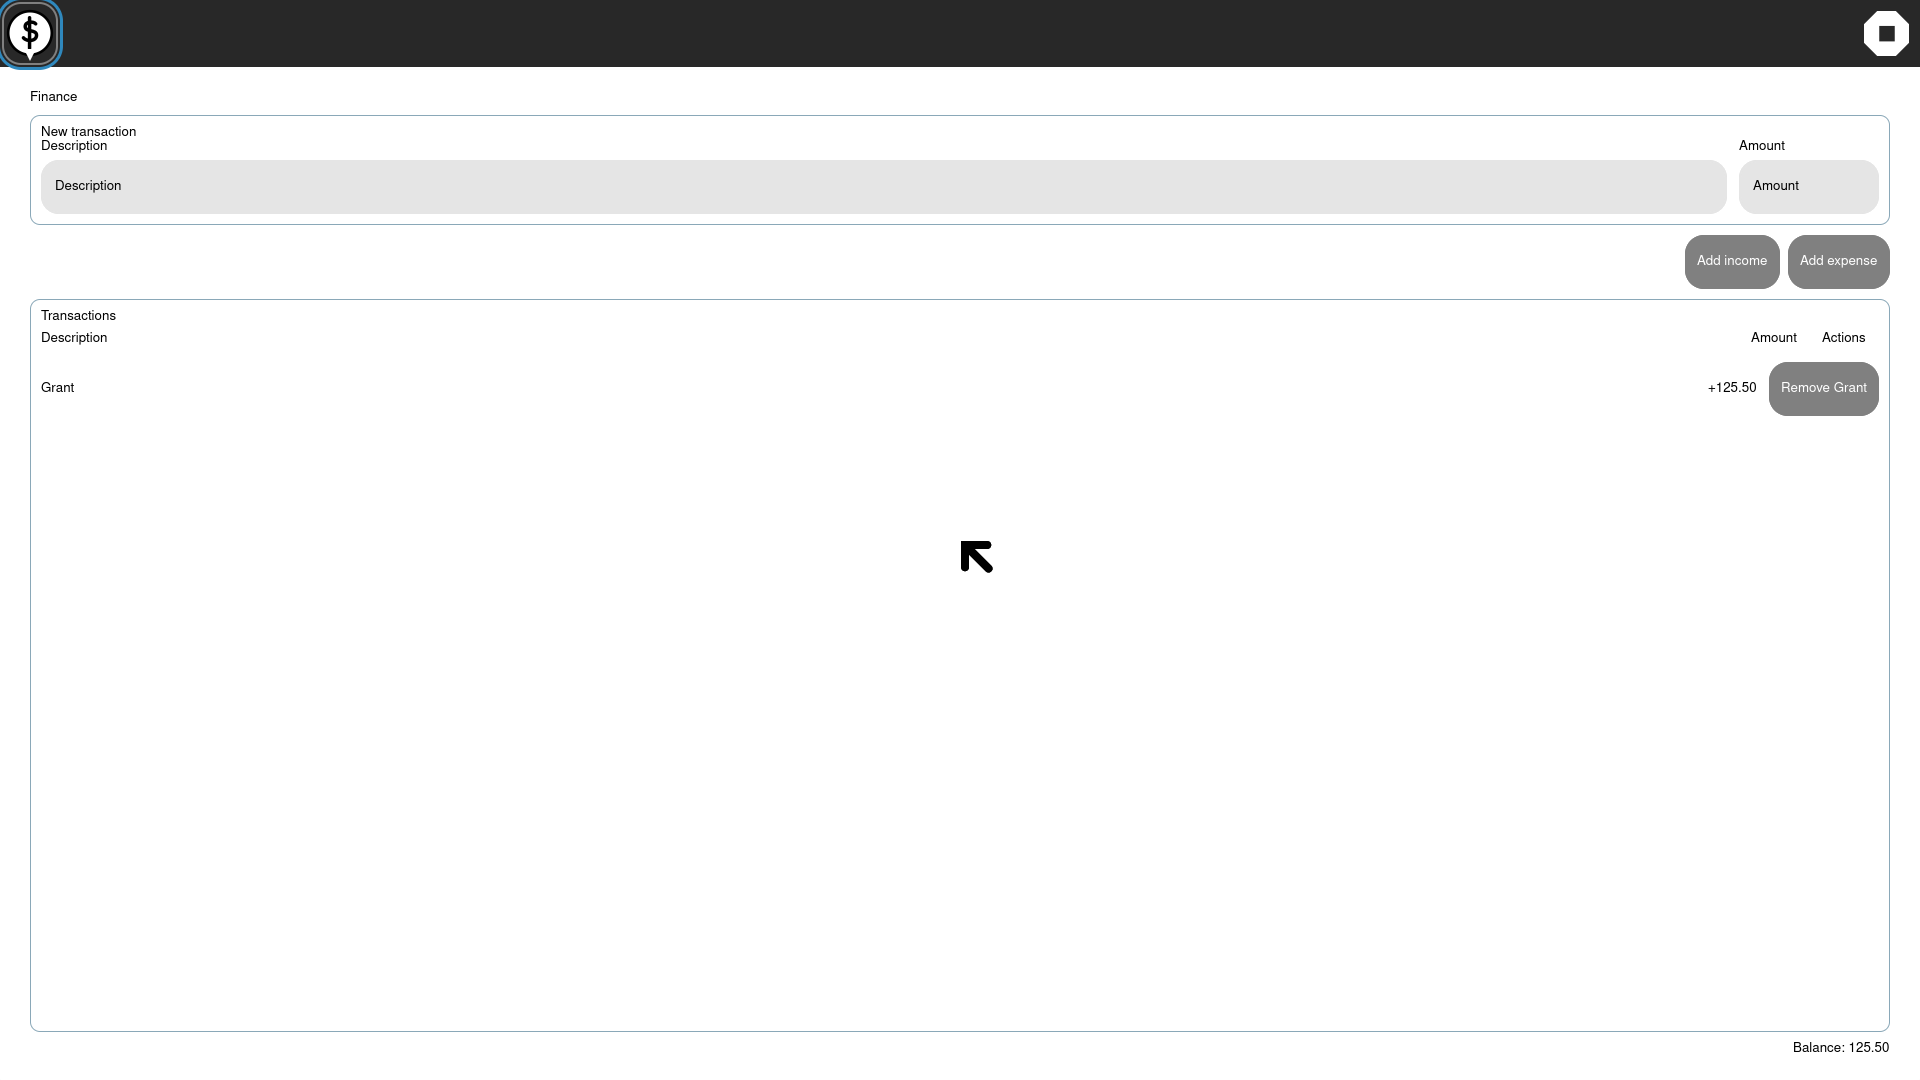
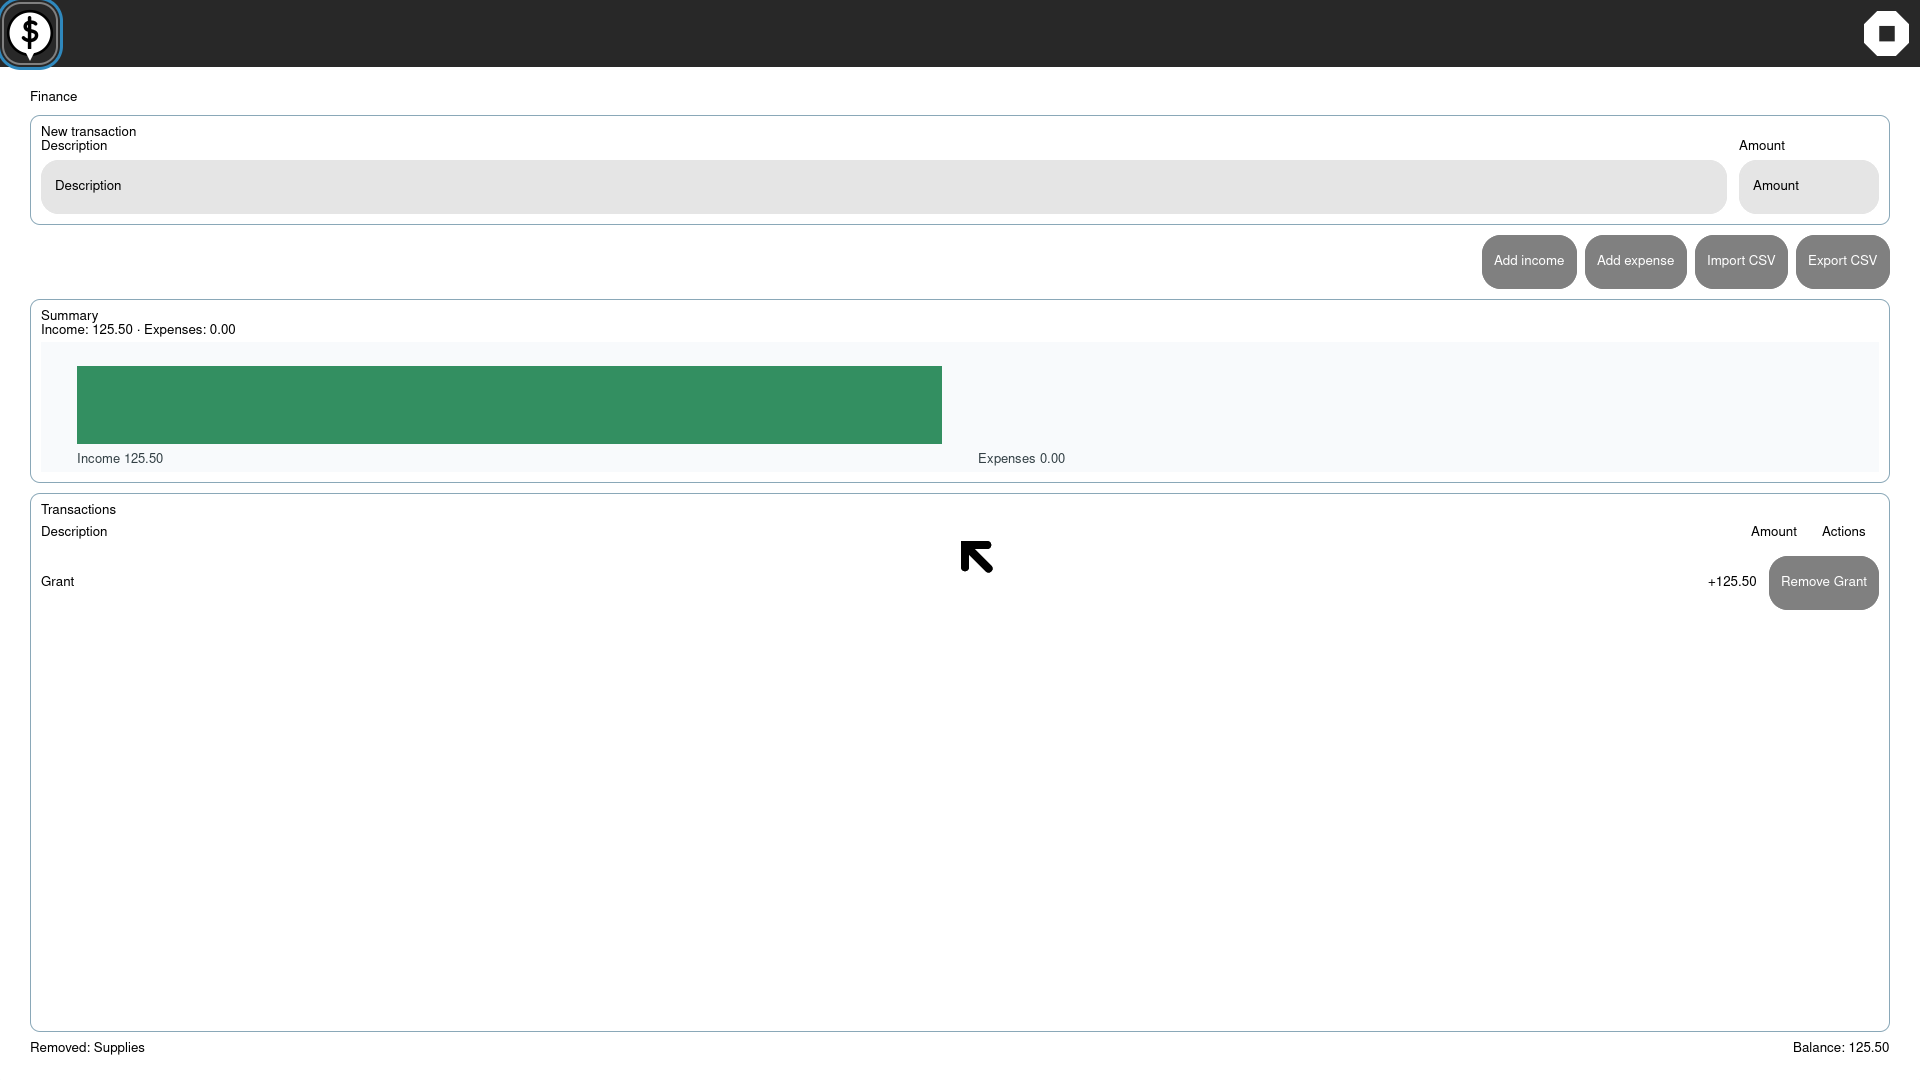
finance: add live income expense chart

diff --git a/packages/gtk4-finance-activity/financeactivity4.py b/packages/gtk4-finance-activity/financeactivity4.py
@@ -65,6 +65,22 @@ class FinanceActivity(SimpleActivity):
         buttons.append(export_button)
         body.append(buttons)
 
+        summary = Gtk.Box(orientation=Gtk.Orientation.VERTICAL, spacing=4)
+        self.chart_summary = Gtk.Label(label="Income: 0.00 · Expenses: 0.00", xalign=0)
+        self.chart_summary.add_css_class("dim-label")
+        summary.append(self.chart_summary)
+        self.chart = Gtk.DrawingArea()
+        self.chart.set_content_height(130)
+        self.chart.set_hexpand(True)
+        self.chart.set_draw_func(self._draw_chart)
+        self.chart.update_property([Gtk.AccessibleProperty.LABEL], ["Income and expense chart"])
+        summary.append(self.chart)
+        summary_frame = Gtk.Frame(label="Summary")
+        summary_frame.add_css_class("finance-pane")
+        summary_frame.set_hexpand(True)
+        summary_frame.set_child(summary)
+        body.append(summary_frame)
+
         transaction_content = Gtk.Box(orientation=Gtk.Orientation.VERTICAL, spacing=8)
         transaction_content.set_vexpand(True)
         header = Gtk.Grid(column_spacing=12)
@@ -103,7 +119,7 @@ class FinanceActivity(SimpleActivity):
         self.balance = Gtk.Label(label="Balance: 0.00", xalign=1); self.balance.set_halign(Gtk.Align.END); self.balance.add_css_class("heading"); footer.append(self.balance)
         body.append(footer)
         self.set_canvas(root)
-        provider = Gtk.CssProvider(); provider.load_from_data(b"entry { min-height: 42px; } button { min-height: 42px; border-radius: 19px; } frame.finance-pane { border: 1px solid #8aa8b8; border-radius: 10px; padding: 10px; } label.empty-state { background: #f1f5f7; border-radius: 12px; padding: 28px 24px; color: #52636b; } list { margin-top: 8px; } listboxrow { padding: 10px 12px; }")
+        provider = Gtk.CssProvider(); provider.load_from_data(b"entry { min-height: 42px; } button { min-height: 42px; border-radius: 19px; } frame.finance-pane { border: 1px solid #8aa8b8; border-radius: 10px; padding: 10px; } drawingarea.finance-chart { background: #f7fafb; border-radius: 8px; } label.empty-state { background: #f1f5f7; border-radius: 12px; padding: 28px 24px; color: #52636b; } list { margin-top: 8px; } listboxrow { padding: 10px 12px; }")
         display = Gdk.Display.get_default()
         if display: Gtk.StyleContext.add_provider_for_display(display, provider, Gtk.STYLE_PROVIDER_PRIORITY_APPLICATION)
 
@@ -118,6 +134,36 @@ class FinanceActivity(SimpleActivity):
     def _append_row(self, value, description):
         self._rows.append((value, description))
         self._refresh_rows()
+
+    def _draw_chart(self, _area, cr, width, height):
+        cr.set_source_rgb(0.97, 0.98, 0.985)
+        cr.paint()
+        income = sum(value for value, _description in self._rows if value > 0)
+        expenses = -sum(value for value, _description in self._rows if value < 0)
+        maximum = max(income, expenses, 1.0)
+        left = 36
+        baseline = max(30, height - 28)
+        available = max(40, height - 52)
+        bar_width = max(36, (width - 3 * left) / 2)
+        for index, (label, value, color) in enumerate(
+            (("Income", income, (0.20, 0.56, 0.38)), ("Expenses", expenses, (0.78, 0.36, 0.27)))
+        ):
+            x = left + index * (bar_width + left)
+            bar_height = available * value / maximum
+            cr.set_source_rgb(*color)
+            cr.rectangle(x, baseline - bar_height, bar_width, bar_height)
+            cr.fill()
+            cr.set_source_rgb(0.20, 0.25, 0.27)
+            cr.select_font_face("Sans", 0, 0)
+            cr.set_font_size(13)
+            cr.move_to(x, baseline + 19)
+            cr.show_text(f"{label} {value:.2f}")
+        if not self._rows:
+            cr.set_source_rgb(0.32, 0.39, 0.42)
+            cr.select_font_face("Sans", 0, 0)
+            cr.set_font_size(15)
+            cr.move_to(left, baseline - available / 2)
+            cr.show_text("Add transactions to see the summary")
 
     def _refresh_rows(self):
         while (row := self.rows.get_row_at_index(0)) is not None:
@@ -142,7 +188,11 @@ class FinanceActivity(SimpleActivity):
             self.rows.append(row)
         self.empty_state.set_visible(not self._rows)
         self.rows.set_visible(bool(self._rows))
-        self.balance.set_text(f"Balance: {sum(v for v, _ in self._rows):.2f}")
+        income = sum(value for value, _description in self._rows if value > 0)
+        expenses = -sum(value for value, _description in self._rows if value < 0)
+        self.chart_summary.set_text(f"Income: {income:.2f} · Expenses: {expenses:.2f}")
+        self.chart.queue_draw()
+        self.balance.set_text(f"Balance: {income - expenses:.2f}")
 
     def _remove_row(self, _button, index):
         if 0 <= index < len(self._rows):

diff --git a/tests/test_gtk4_finance_activity.py b/tests/test_gtk4_finance_activity.py
@@ -13,6 +13,9 @@ def test_finance_bundle_is_native_and_registered():
     assert "Add income" in source and "Add expense" in source and 'label=f"Remove {description}"' in source
     assert "Import CSV" in source and "Export CSV" in source
     assert "from finance_csv import read_csv, write_csv" in source
+    assert "Gtk.DrawingArea" in source and "_draw_chart" in source
+    assert 'Gtk.Frame(label="Summary")' in source
+    assert "Income and expense chart" in source
     assert "org.laptop.community.Finance" in (ROOT / "scripts/sugar-gtk4-activity-matrix.sh").read_text()
     assert "gtk4-finance-activity" in (ROOT / "scripts/sugar-gtk4-dev-sync.sh").read_text()
     assert "gtk4-finance-activity" in (ROOT / "scripts/sugar-gtk4-build.sh").read_text()
@@ -64,6 +67,7 @@ def test_finance_transactions_use_aligned_description_and_amount_columns():
     assert "def _remove_row" in source
     assert "Remove transaction" in source
     assert 'header.attach(actions_heading, 2, 0, 1, 1)' in source
+    assert "self.chart_summary.set_text" in source and "self.chart.queue_draw()" in source
 
 
 def test_finance_roundtrip_exercises_transaction_removal():

diff --git a/docs/sugar-modernization/ACTIVITY_PORT_CLASSIFICATION.md b/docs/sugar-modernization/ACTIVITY_PORT_CLASSIFICATION.md
@@ -52,7 +52,7 @@ Classification used by the migration ledger:
 | Words | FUNCTIONAL PORT | UTF-8 word entry, lookup result, and JSON Journal save/resume verified with real GTK4 Activity processes on 2026-09-15; translation/audio breadth remains absent |
 | Portfolio | FUNCTIONAL PORT | Responsive labeled project-description editor, UTF-8 title/body editing, visible draft-save state, and JSON Journal save/resume verified 2026-10-04; rich media/export breadth remains absent |
 | FotoToon | FUNCTIONAL PORT | Caption canvas interaction and JSON Journal save/resume verified with real GTK4 Activity processes on 2026-09-15; image import/layout breadth remains absent |
-| Finance | FUNCTIONAL PORT | Income/expense tracking, aligned transaction table, object-specific Remove actions, balance calculation, tested CSV description/amount/type interchange, and JSON Journal removal/save-resume verified in the headless guest on 2026-10-05; chart views and collaboration remain absent |
+| Finance | FUNCTIONAL PORT | Income/expense tracking, aligned transaction table, object-specific Remove actions, live income/expense chart summary, balance calculation, tested CSV description/amount/type interchange, and JSON Journal removal/save-resume verified in the headless guest on 2026-10-05; historical charting and collaboration remain absent |
 | Markdown | FUNCTIONAL PORT | Responsive centered side-by-side Markdown source/preview workspace with readable pane framing, guided empty state, sanitized common Markdown rendering (headings, emphasis, code, links, lists, quotes, and rules), and Journal save/resume verified in the headless guest on 2026-10-05; full CommonMark/PageDown parser parity remains absent |
 | Stopwatch | FUNCTIONAL PORT | JSON Journal elapsed-time resume, visible time restoration, and clean stop were verified with real GTK4 Activity processes on 2026-09-15; lap/export/collaboration breadth is not claimed |
 | TurtleBlocks | FUNCTIONAL PORT | Forward/turn/clear drawing workflow, visible position/heading state, seeded JSON Journal turtle position/heading/lines resume, and clean stop were verified with real GTK4 Activity processes on 2026-09-15; full Logo block language, collaboration, and upstream feature breadth remain absent |

diff --git a/reports/gtk4/finance-removal-pass-20261005.md b/reports/gtk4/finance-removal-pass-20261005.md
@@ -14,7 +14,7 @@ The [headless capture](finance-removal-20261005.png) was taken with:
 
 ```text
 SSH_PORT=2230 ./scripts/ssh-asp \
-  '/usr/lib/aspartame/gtk4-preview/venv/bin/python /mnt/aspartame-dev/scripts/sugar-gtk4-finance-roundtrip.py 1 /tmp/finance-remove-20261005.png'
+  '/usr/lib/aspartame/gtk4-preview/venv/bin/python /mnt/aspartame-dev/scripts/sugar-gtk4-finance-roundtrip.py 1 /tmp/finance-chart-20261005.png'
 ```
 
 Receipt:
@@ -24,8 +24,8 @@ cycle=1 ... resume=PASS service-release=PASS shell-cleanup=PASS
 finance-roundtrip=PASS input-method=AT-SPI datastore-payload=seeded
 ```
 
-Finance now also exposes accessible CSV Import/Export actions. The pure CSV
-boundary roundtrips income/expense direction and descriptions without changing
-the JSON Journal payload. Chart views and collaboration remain outside the
-bounded port; the CSV file-dialog path is implemented but still needs a visual
-guest interaction receipt.
+Finance now also exposes accessible CSV Import/Export actions and a live
+income/expense summary chart. The pure CSV boundary roundtrips income/expense
+direction and descriptions without changing the JSON Journal payload. Historical
+charting and collaboration remain outside the bounded port; the CSV file-dialog
+path is implemented but still needs a visual guest interaction receipt.

diff --git a/docs/sugar-modernization/GTK4_ACTIVITY_MATRIX.md b/docs/sugar-modernization/GTK4_ACTIVITY_MATRIX.md
@@ -14,7 +14,7 @@ without an orphan process. It does not by itself prove a complete port.
 | Calculate | 2-cycle launch plus seeded Journal expression resume and visible result restoration | FUNCTIONAL PORT |
 | Level | 2-cycle launch plus seeded JSON Journal inclination resume and visible readout restoration | FUNCTIONAL PORT |
 | Markdown | 2-cycle launch plus seeded UTF-8 Journal source resume and visible editor restoration | FUNCTIONAL PORT |
-| Finance | 2-cycle launch plus seeded JSON transaction resume and visible balance restoration | FUNCTIONAL PORT |
+| Finance | 2-cycle launch plus seeded JSON transaction resume, visible balance restoration, and live income/expense chart summary | FUNCTIONAL PORT |
 | Words | 2-cycle launch plus seeded JSON word resume and visible lookup restoration | FUNCTIONAL PORT |
 | Portfolio | 2-cycle launch plus seeded JSON title/body resume and visible title restoration | FUNCTIONAL PORT |
 | Jukebox | 2-cycle launch plus seeded JSON playlist resume and visible track restoration | FUNCTIONAL PORT |

diff --git a/docs/sugar-modernization/GTK4_STATUS.md b/docs/sugar-modernization/GTK4_STATUS.md
@@ -117,7 +117,8 @@ fresh-row rebuilding, and removal persistence. The headless receipt removes a
 seeded expense, verifies the resulting `125.50` balance and one-row Journal
 payload, and captures the aligned table. Finance now also has accessible CSV
 Import/Export actions backed by a tested description/amount/type interchange
-module; chart views and collaboration remain outside the bounded port.
+module, plus a live income/expense chart summary driven by the same model;
+historical charting and collaboration remain outside the bounded port.
 
 Chirality Milestone 1 now has a real GTK4-only Activity adapter and a guest
 probe that switches Calculate and Clock Left/Right/Left on one visible
